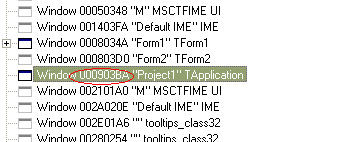
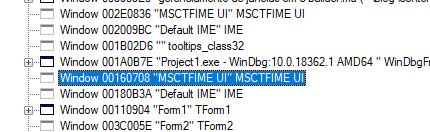
gerenciamento-de-janelas-em-c-builder.md: final.

diff --git a/content/posts/gerenciamento-de-janelas-em-c-builder.md b/content/posts/gerenciamento-de-janelas-em-c-builder.md
@@ -1,7 +1,7 @@
 ---
 date: "2007-12-11"
 title: "Gerenciamento de janelas em C++ Builder"
-tags: [ "draft", "code" ]
+tags: [ "code" ]
 ---
 As janelas criadas no C++ Builder são equivalentes às janelas criadas pela API, com o detalhe que a VCL gerencia tudo automaticamente. Isso não quer dizer que não podemos tomar controle de tudo. Quer dizer que não precisamos.
 
@@ -26,9 +26,14 @@ Porém, se rodarmos a aplicação nesse momento, podemos notar que o programa ex
 
 Agora ao clicar do botão a janela correspondente ao formulário número 2 também aparece. Podemos fechá-la e abri-la quantas vezes quisermos que o aplicativo continua rodando. Apenas ao fechar a janela no. 1 o aplicativo realmente encerra. Esse comportamento segue o mesmo padrão da função main() na forma clássica das linguagens C/C++:
 
-    
-    ShowMessage("O MainForm de Application é o primeiro TForm criado. "
-      "É o princípio e o fim, o Alfa e o Ômega. Nele tudo começa e tudo termina");
+    ShowMessage(
+      "O MainForm de Application"
+      " é o primeiro TForm criado."
+      " É o princípio e o fim,"
+      " o Alfa e o Ômega."
+      " Nele tudo começa"
+      " e tudo termina"
+    );
 
 Podemos, também como em C/C++ padrão, finalizar explicitamente a aplicação chamando o método Application->Terminate. O MainForm em tempo de execução é uma propriedade de somente leitura de Application. Em tempo de design, ele pode ser alterado pela ordem de criação dos formulários no código ou pela IDE em Project, Options, Forms. Lá você também escolhe quais forms serão criados automaticamente.
 
@@ -54,26 +59,32 @@ Pronto! Agora você decide onde termina e onde acaba sua aplicação.
 
 Se dermos uma olhada bem de perto no que acontece por dentro de um aplicativo que usa a VCL descobriremos que o método Run de Application nada mais é que o loop de mensagens que [já conhecemos].
 
-Para analisarmos melhor o que ocorre nos internals da coisa, criei um [projeto simplista](/images/cppbuilder-forms.7z) que possui dois forms, ambos com quatro botões: 1) mostrar o outro form, 2) esconder a si mesmo, 3) fechar a si mesmo e 4) terminar aplicação. Os dois formulários são tão parecidos que desconfio que sejam gêmeos.
+Para analisarmos melhor o que ocorre nos internals da coisa, criei um [projeto simplista] que possui dois forms, ambos com quatro botões: 1) mostrar o outro form, 2) esconder a si mesmo, 3) fechar a si mesmo e 4) terminar aplicação. Os dois formulários são tão parecidos que desconfio que sejam gêmeos.
 
-Além disso, iremos precisar do nosso velho e fiel amigo WinDbg, o que o trás de volta à cena do crime depois de alguns artigos de jejum.
+Além disso, iremos precisar do nosso velho e fiel amigo WinDbg, o que o trás de volta à cena do crime depois de alguns artigos de jejum. Para saber mais sobre o WinDbg e dar suas "WinDbgzadas", [faça uma busca] no blogue.
 
-Para saber mais sobre o WinDbg e dar suas "WinDbgzadas", dê uma olhada em alguns [artigos interessantes](http://www.caloni.com.br/blog/search/WinDbg) sobre depuração usando WinDbg.
-
-A primeira coisa que um loop de mensagens deveria fazer seria chamar a função [GetMessage](http://msdn2.microsoft.com/en-us/library/ms644936.aspx), que obtém a primeira mensagem em espera na fila de mensagens da thread chamadora. Portanto, vamos dar uma olhada nas chamadas dessa função:
+A primeira coisa que um loop de mensagens deveria fazer seria chamar a função GetMessage, que obtém a primeira mensagem em espera na fila de mensagens da thread chamadora. Portanto, vamos dar uma olhada nas chamadas dessa função:
 
     windbg Project1.exe
-    0:001> bm /a user32!GetMessage?  1: 7e4191c6 @!"USER32!GetMessageW" 2: 7e42e002 @!"USER32!GetMessageA"
-    g
+    0:001> g
+    ModLoad: addr module1.dll
+    ModLoad: addr module2.DLL
+    ModLoad: addr module3.dll
+    ...
+    Ctrl+Break
+    0:001> bm /a user32!GetMessage?
+    1: 7e4191c6 @!"USER32!GetMessageW"
+    2: 7e42e002 @!"USER32!GetMessageA"
+    0:001> g
 
 E o resultado é... nada! Mesmo mexendo com a janela e apertando seus botões não há uma única ocorrência do GetMessage. Bruxaria? Programação oculta?
 
-Nem tanto. Uma alternativa ao GetMessage, que captura a primeira mensagem da fila de mensagens e a retira, é o [PeekMessage](http://msdn2.microsoft.com/en-us/library/ms644943.aspx), que captura a primeira mensagem da fila, mas mantém a mensagem na fila. Por algum motivo, os programadores da Borland fizeram seu loop de mensagens usando PeekMessage.
+Nem tanto. Uma alternativa ao GetMessage, que captura a primeira mensagem da fila de mensagens e a retira, é o PeekMessage, que captura a primeira mensagem da fila, mas mantém a mensagem na fila. Por algum motivo, os programadores da Borland fizeram seu loop de mensagens usando PeekMessage.
 
-    bc*
-    0:001> bm /a user32!PeekMessage?  1: 7e41929b @!"USER32!PeekMessageW" 2: 7e41c96c @!"USER32!PeekMessageA"
-    g
-
+    0:001> bc*
+    0:001> bm /a user32!PeekMessage?
+      1: 7e41929b @!"USER32!PeekMessageW"
+      2: 7e41c96c @!"USER32!PeekMessageA"
     0:001> g
     Breakpoint 2 hit
     eax=00b1c6b0 ebx=00000000 ecx=0012ff44 edx=0012fef8 esi=00b1c6b0 edi=0012fef8
@@ -86,17 +97,16 @@ Agora, sim!
 
 Analisando os parâmetros da função PeekMessage podemos obter algumas informações interessantes sobre uma mensagem, como seu código e a janela destino:
 
-    0:000> dd @$csp L2 * o que tem nessa pilha?
-    0012fec8  52079211
-    0012fef8* pMsg
-    0:000> dd poi(@$csp+4) L6 * mostrando membros da estrutura MSG
-    0012fef8 000903ba00000113 00000001 00000000 * handle da janela, código da mensagem, etc
-    0012ff08  007bb129 000000e7
+    0:000> dd @$csp L2
+    0019fe9c  4005aa1c 0019fec8
+    0:000> dd poi(@$csp+4) L6
+    0019fec8  00160708 00000113 00000001 00000000
+    0019fed8  0869c6e1 00000244
 
 Podemos bater essas informações com as do aplicativo Spy++, que captura janelas e suas mensagens:
 
-    bd *
-    g
+    0:000> bd *
+    0:000> g
 
 Normalmente esses dois rodando juntos podem causar alguns conflitos internos. Por isso, quando for usar o Spy++, procure desabilitar seus breakpoints. Após mexer no Spy++, feche-o antes de continuar depurando.
 
@@ -128,3 +138,5 @@ Tem tudo a ver! Mais do que simplesmente programar interfaces, esses conheciment
 
 [artigo à parte]: /introducao-ao-c-builderturbo-c
 [já conhecemos]: /historia-do-windows-parte-30
+[projeto simplista]: https://github.com/Caloni/cppbuilder-forms
+[faça uma busca]: http://www.caloni.com.br/posts/?q=windbg
